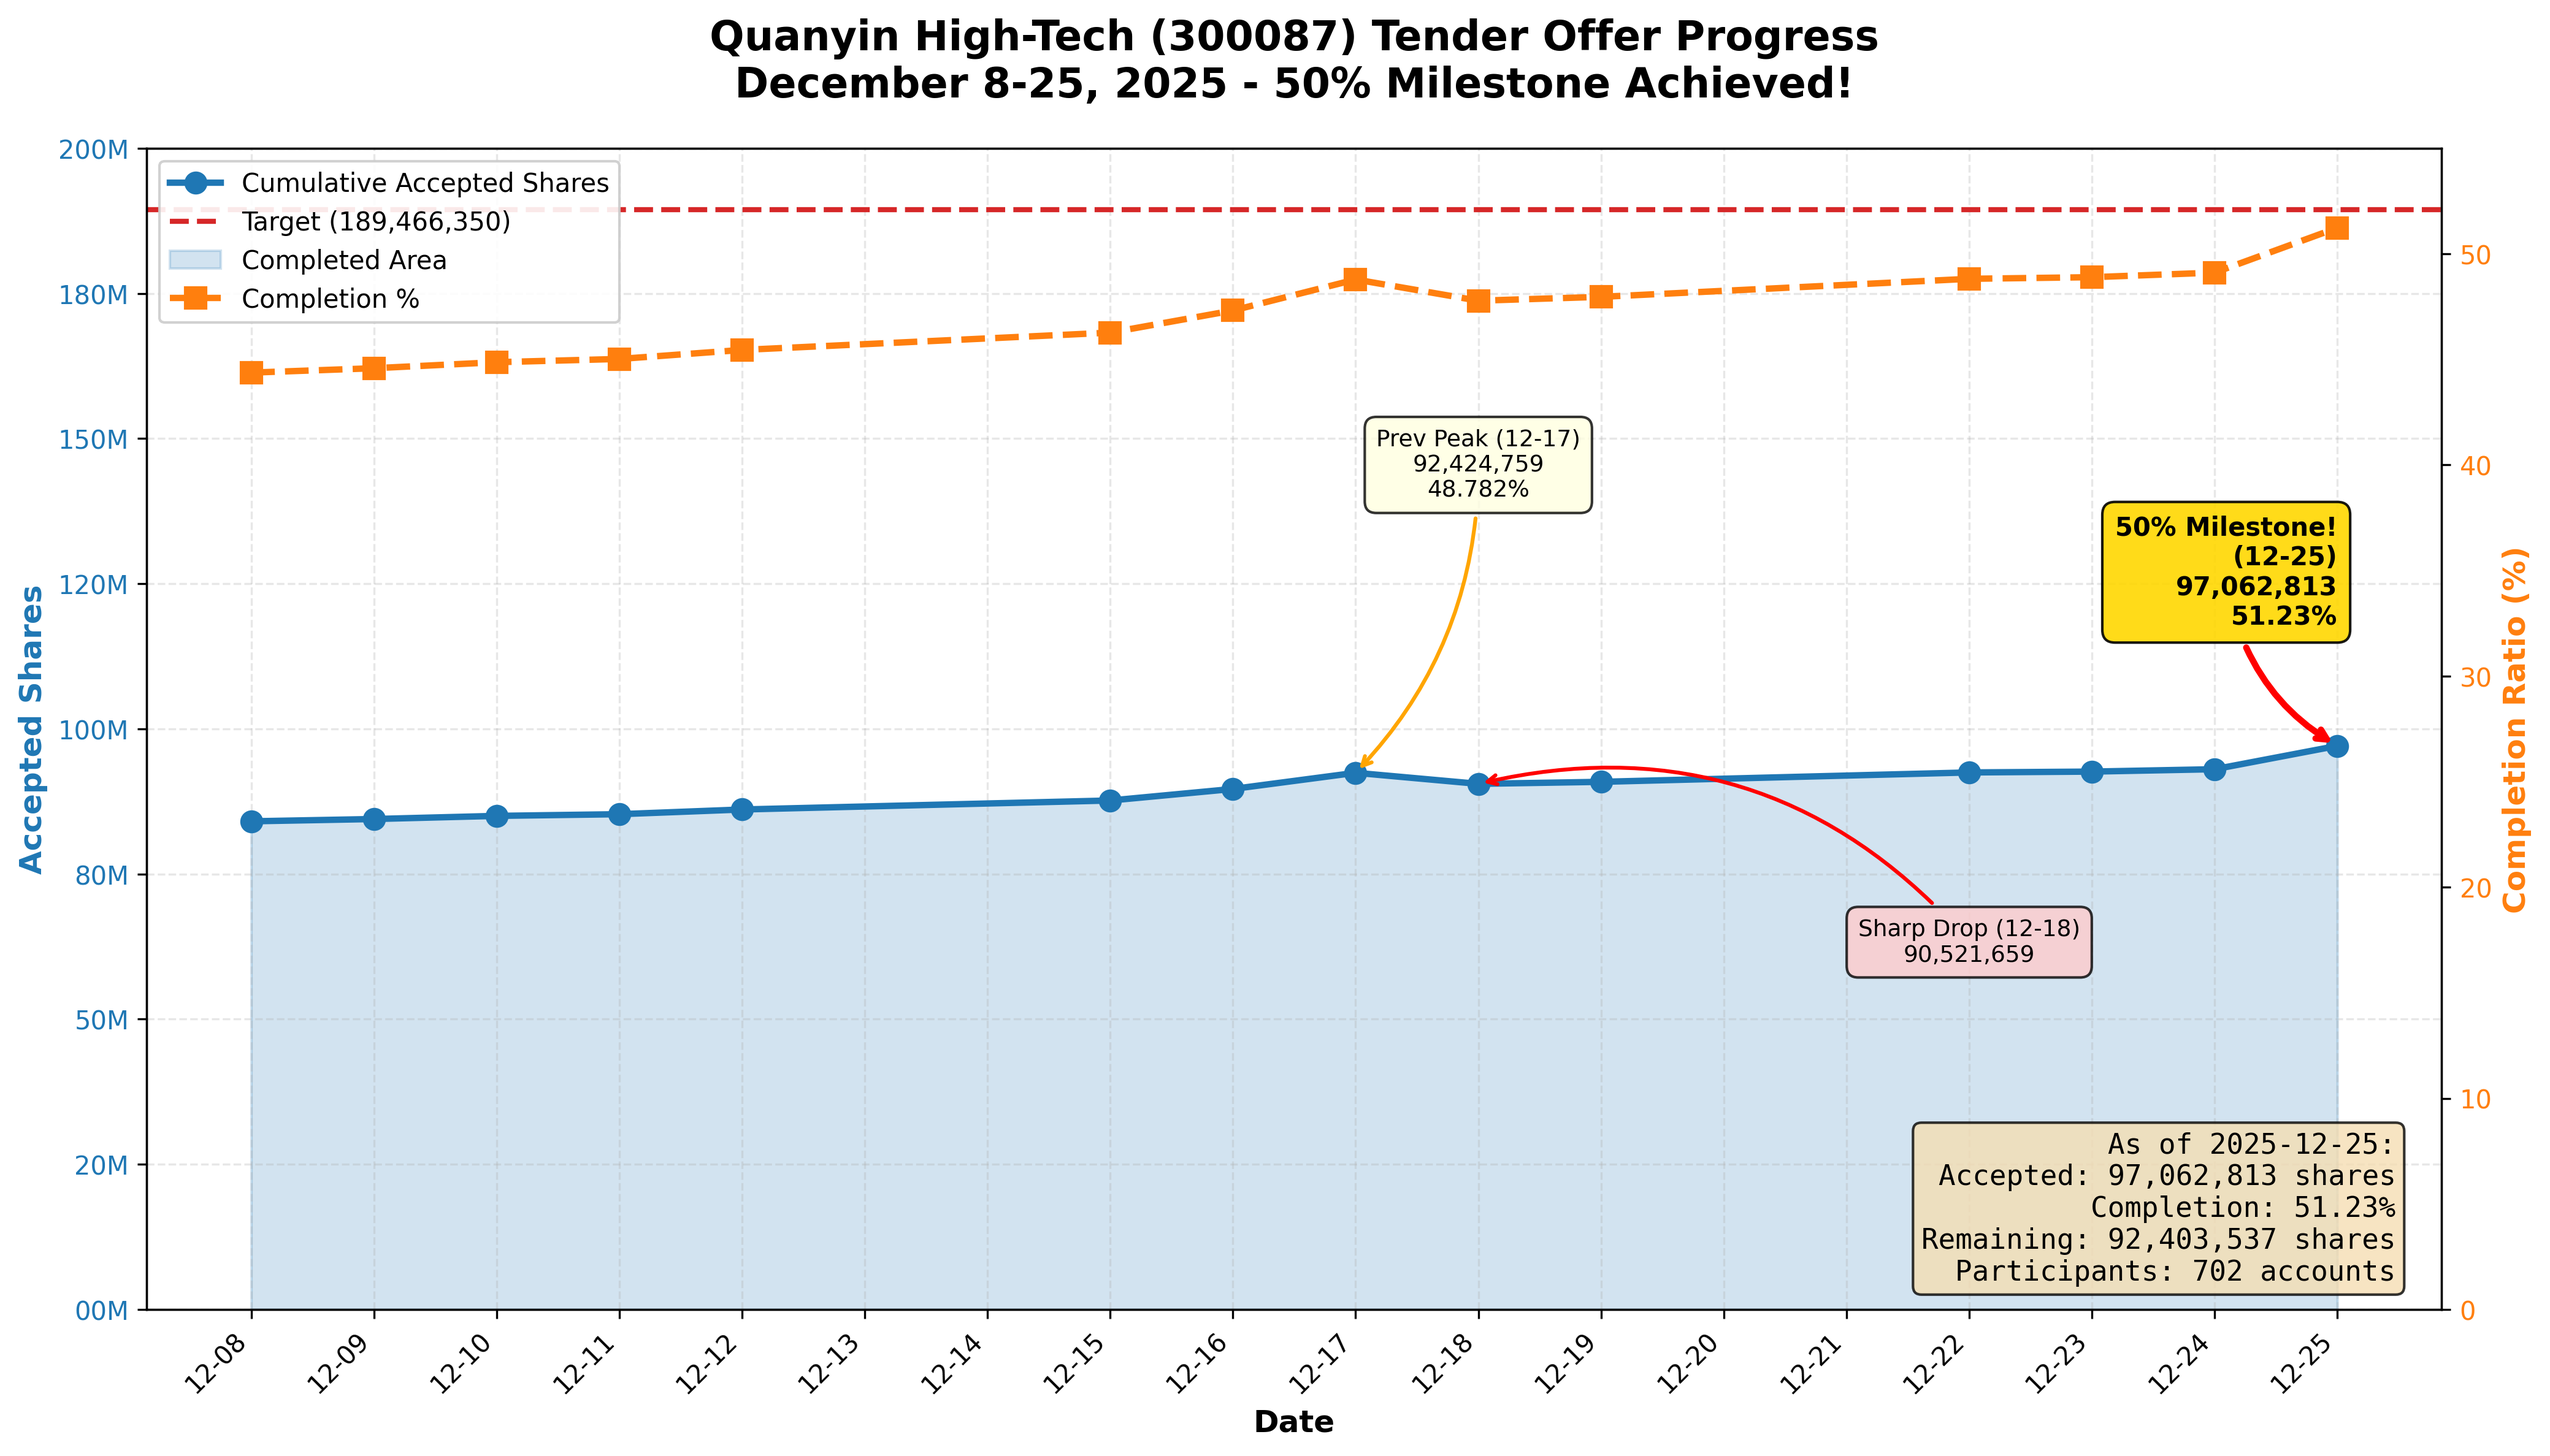
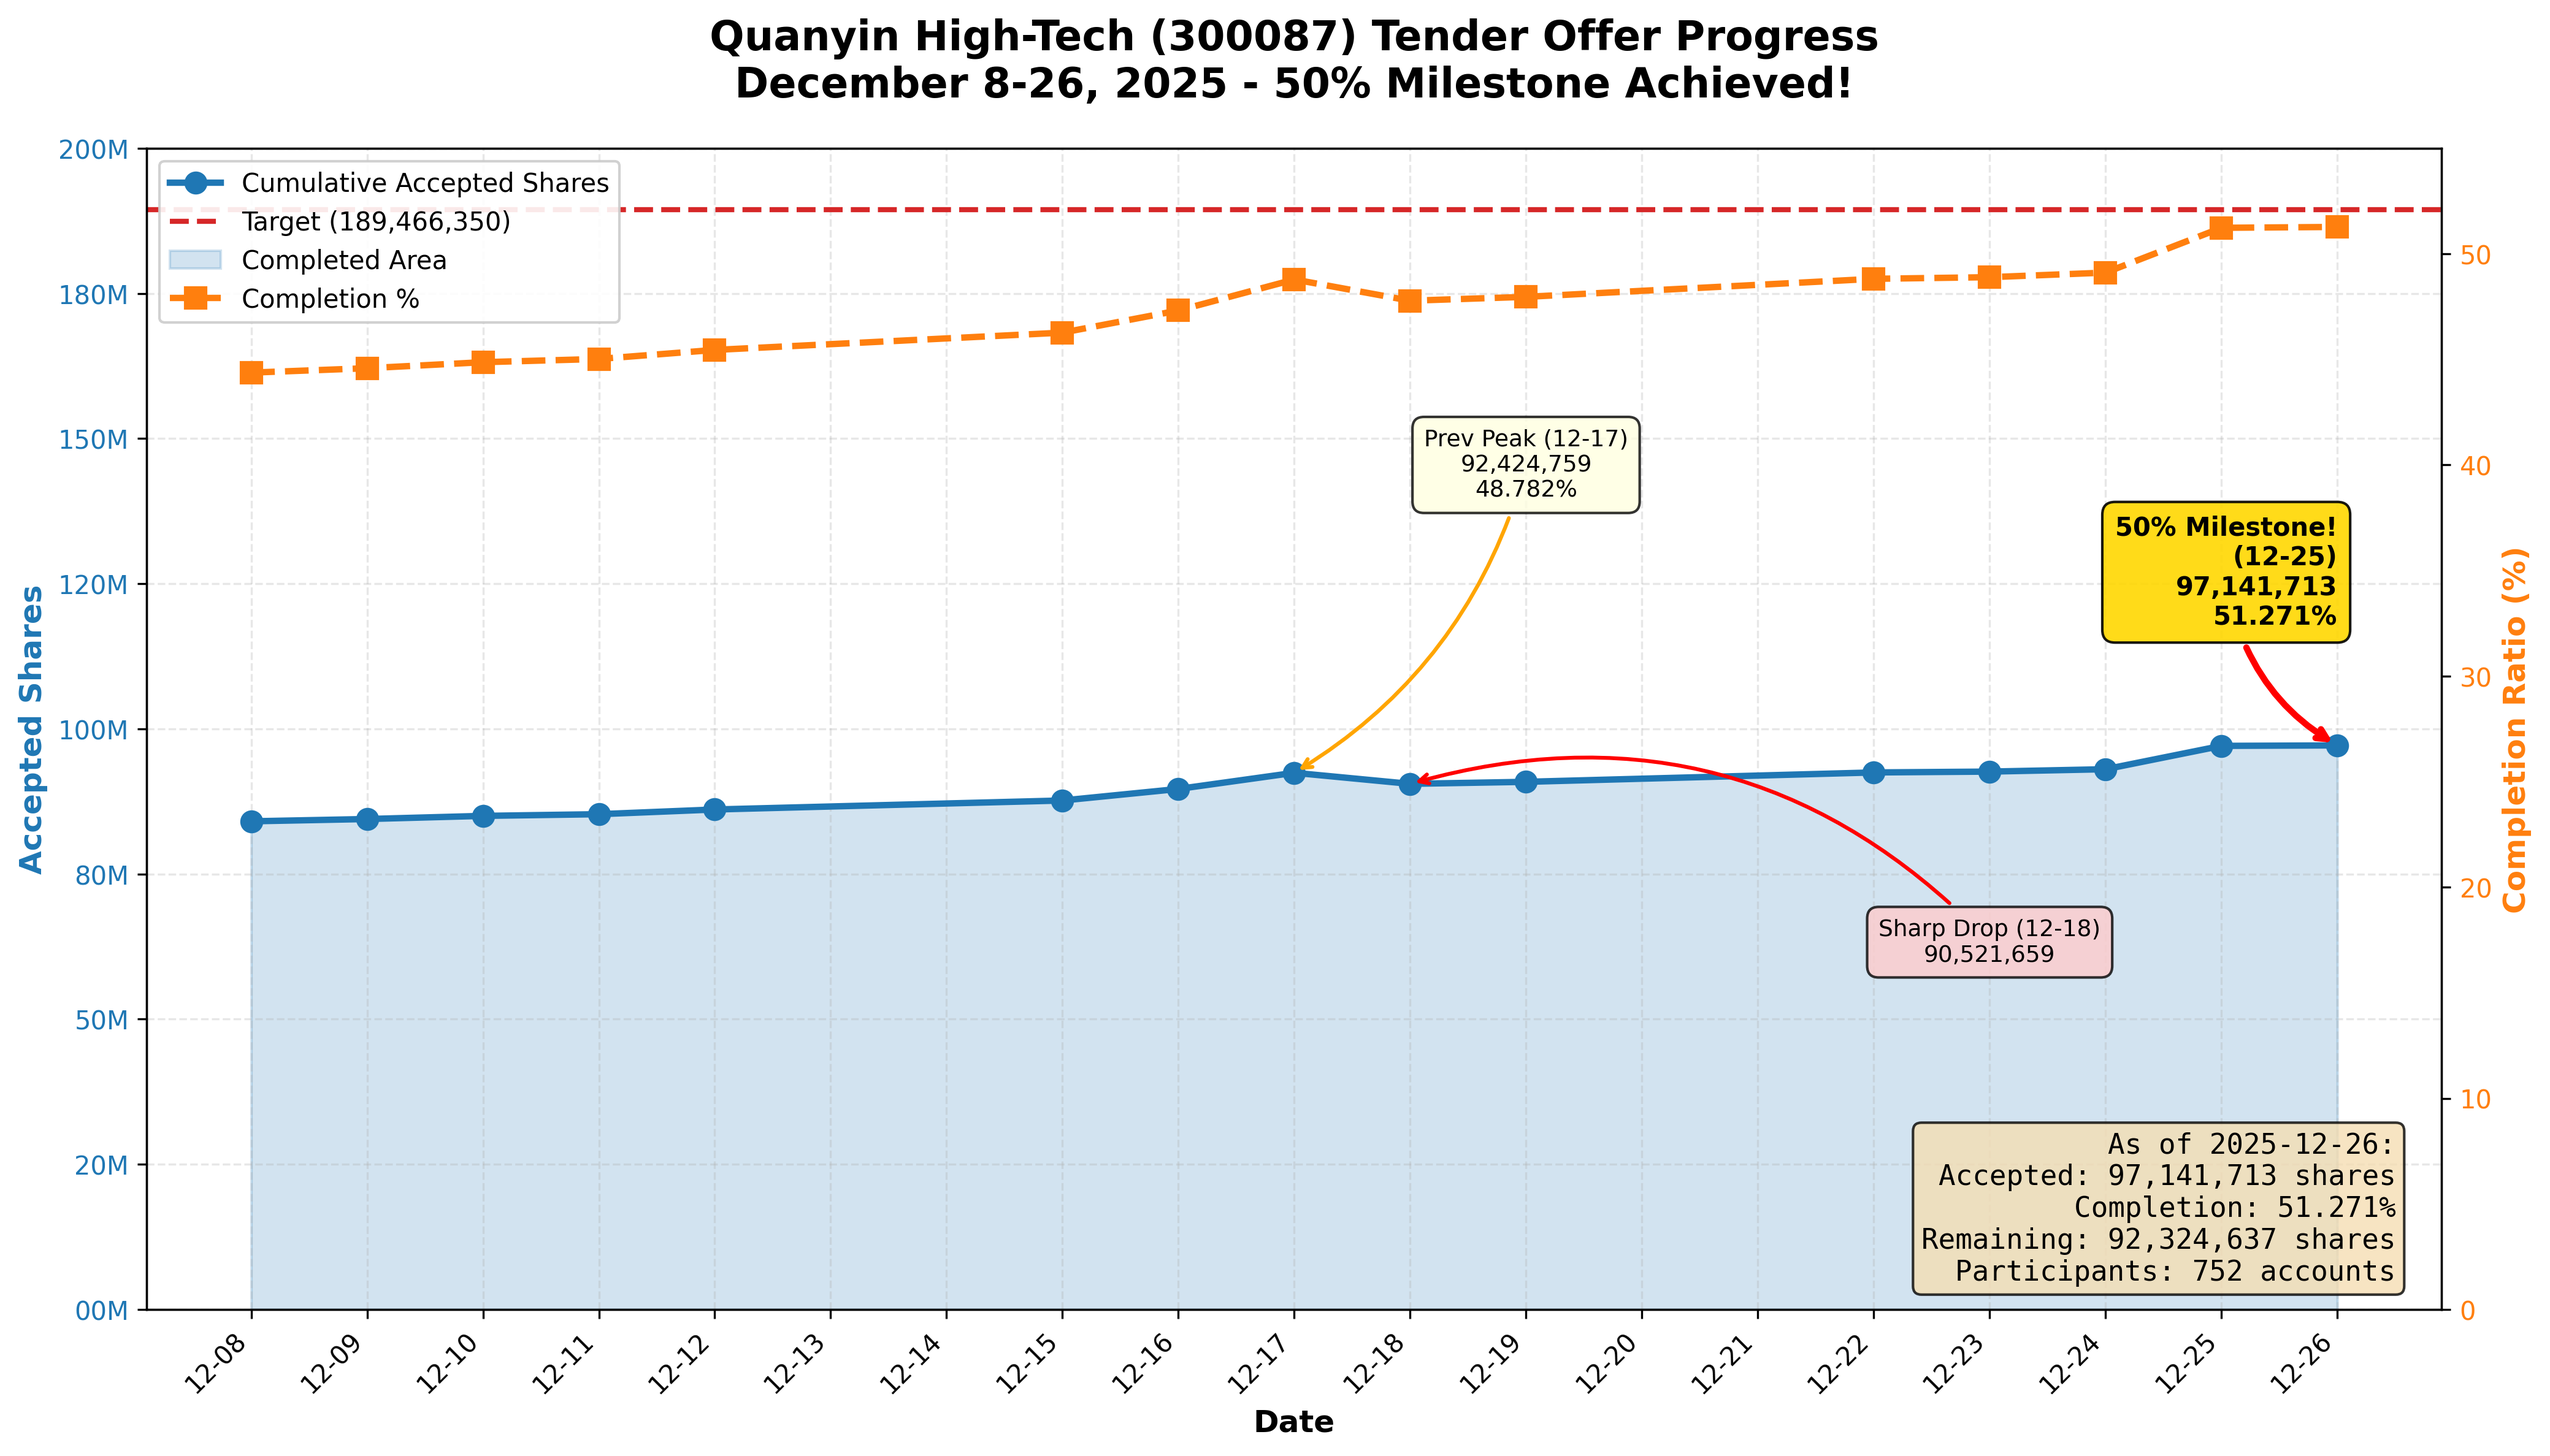
更新要约收购数据至12月26日
- 累计净预受股数达97,141,713股（51.271%）
- 单日净增78,900股，继续保持在50%以上
- 预受户数增至752户
- 图表更新至12-26数据
- 添加12月29日截图文件

diff --git a/05_quanyin_tender_offer/generate_chart.py b/05_quanyin_tender_offer/generate_chart.py
@@ -26,7 +26,8 @@ dates = [
     '2025-12-22',
     '2025-12-23',
     '2025-12-24',
-    '2025-12-25'
+    '2025-12-25',
+    '2025-12-26'
 ]
 
 # Cumulative net accepted shares
@@ -44,7 +45,8 @@ cumulative_shares = [
     92486293,
     92631653,
     93042653,
-    97062813
+    97062813,
+    97141713
 ]
 
 # Completion ratio
@@ -62,7 +64,8 @@ completion_ratio = [
     48.814,
     48.891,
     49.108,
-    51.23
+    51.23,
+    51.271
 ]
 
 # Convert date format
@@ -151,7 +154,7 @@ ax1.annotate(f'Sharp Drop (12-18)\n{cumulative_shares[drop_idx]:,}',
              fontsize=9, ha='center')
 
 # Title
-plt.title('Quanyin High-Tech (300087) Tender Offer Progress\nDecember 8-25, 2025 - 50% Milestone Achieved!',
+plt.title('Quanyin High-Tech (300087) Tender Offer Progress\nDecember 8-26, 2025 - 50% Milestone Achieved!',
           fontsize=16, fontweight='bold', pad=20)
 
 # Merge legends
@@ -165,7 +168,7 @@ stats_text = f'''As of {dates[-1]}:
 Accepted: {cumulative_shares[-1]:,} shares
 Completion: {completion_ratio[-1]}%
 Remaining: {target_shares - cumulative_shares[-1]:,} shares
-Participants: 702 accounts'''
+Participants: 752 accounts'''
 
 props = dict(boxstyle='round', facecolor='wheat', alpha=0.8)
 ax1.text(0.98, 0.02, stats_text, transform=ax1.transAxes,

diff --git a/05_quanyin_tender_offer/要约收购进度追踪.md b/05_quanyin_tender_offer/要约收购进度追踪.md
@@ -8,17 +8,17 @@
 
 ---
 
-## 进度概览（截至2025-12-25）
+## 进度概览（截至2025-12-26）
 
 ### 当前状态
-- ✅ **已净预受**：97,062,813 股
-- ⏳ **还需预受**：92,403,537 股
-- 📊 **完成进度**：51.23% 🎊 **重大突破！已超过50%！**
-- 📈 **预受户数**：702 户
+- ✅ **已净预受**：97,141,713 股
+- ⏳ **还需预受**：92,324,637 股
+- 📊 **完成进度**：51.271% 🎊 **保持在50%以上！**
+- 📈 **预受户数**：752 户
 
 ### 进度条
 ```
-已完成：█████████████████████████▌░░░░░░░░░░░░░░░░░░░░ 51.23%
+已完成：█████████████████████████▌░░░░░░░░░░░░░░░░░░░░ 51.271%
 ```
 
 ---
@@ -43,6 +43,7 @@
 | 12-23 | 1,125,660 | 980,300 | +145,360 | 92,631,653 | 48.891% | 672户 |
 | 12-24 | 1,202,700 | 791,700 | +411,000 | 93,042,653 | 49.108% | 682户 |
 | 12-25 | 5,516,160 | 1,496,000 | +4,020,160 | 97,062,813 | 51.23% | 702户 |
+| 12-26 | 1,038,900 | 960,000 | +78,900 | 97,141,713 | 51.271% | 752户 |
 
 ---
 
@@ -57,11 +58,11 @@
 
 | 日期 | 净变化 | 趋势 |
 |------|--------|------|
-| 12-19 | +347,208 | ⬆ 恢复增长 |
 | 12-22 | +1,617,426 | ⬆⬆ 强劲反弹 |
 | 12-23 | +145,360 | ⬆ 小幅增长 |
 | 12-24 | +411,000 | ⬆⬆ 加速增长，突破49% |
 | 12-25 | +4,020,160 | 🚀🚀🚀 历史最高单日净增，**突破50%重大里程碑！** |
+| 12-26 | +78,900 | ⬆ 稳步增长，保持在51%以上 |
 
 ### 💡 关键观察
 
@@ -72,7 +73,8 @@
 5. **12月23日稳步增长**：单日净增14.5万股，累计预受达到92,631,653股（48.891%），再创新高
 6. **12月24日重大突破**：单日净增41.1万股，累计预受达到93,042,653股（**49.108%**），**突破49%关口**！
 7. **🎊 12月25日历史性突破**：单日净增**402万股**（历史最高），累计预受达到97,062,813股（**51.23%**），**成功突破50%重大里程碑**！
-8. **参与户数持续增加**：从282户增长到702户，增长149%
+8. **12月26日稳步巩固**：单日净增7.89万股，累计预受达到97,141,713股（**51.271%**），**继续保持在50%以上**
+9. **参与户数持续增加**：从282户增长到752户，增长167%
 
 ---
 
@@ -80,19 +82,19 @@
 
 ### 还需完成
 
-- **剩余股数**：92,403,537 股
-- **剩余比例**：48.77%
-- **剩余天数**：约11个交易日（截至2026年1月5日）
+- **剩余股数**：92,324,637 股
+- **剩余比例**：48.729%
+- **剩余天数**：约10个交易日（截至2026年1月5日）
 
 ### 完成预测
 
-按最近14个交易日平均每日净增速度：
-- **日均净增**：约 927,838 股
-- **预计完成时间**：需要约 100 个交易日
+按最近15个交易日平均每日净增速度：
+- **日均净增**：约 874,152 股
+- **预计完成时间**：需要约 106 个交易日
 
 ⚠ **注意**：按当前速度，可能无法在要约期内完成全部189,466,350股的收购目标。
 
-🎊 **重大里程碑**：已成功突破50%，达到51.23%！12月25日单日净增创历史新高（402万股），展现强劲增长势头！
+🎊 **重大里程碑**：已成功突破50%，达到51.271%！12月25日单日净增创历史新高（402万股），12月26日继续保持在50%以上，展现稳定增长态势！
 
 ---
 
@@ -179,12 +181,19 @@
 - 净预受：682户，93,042,653股（49.108%）
 - **重大里程碑：突破49%关口，距离50%仅一步之遥！**
 
-### 2025年12月25日（周三）📅 最新 🎊 **历史性突破50%！**
+### 2025年12月25日（周三）🎊 **历史性突破50%！**
 - 股份性质：流通股
 - 当天预受：50户，5,516,160股
 - 当天撤回：25户，1,496,000股
 - 净预受：702户，97,062,813股（**51.23%**）
-- **🎊 历史性重大里程碑：单日净增402万股（历史最高），成功突破50%关口，达到51.23%！**
+- **历史性重大里程碑：单日净增402万股（历史最高），成功突破50%关口，达到51.23%！**
+
+### 2025年12月26日（周四）📅 最新 ✅ **保持在50%以上**
+- 股份性质：流通股
+- 当天预受：81户，1,038,900股
+- 当天撤回：19户，960,000股
+- 净预受：752户，97,141,713股（**51.271%**）
+- **稳步增长：单日净增7.89万股，继续保持在50%以上，完成度提升至51.271%**
 
 ---
 
@@ -201,9 +210,9 @@
    - 如果预受股份不足，则全部收购
 
 3. **当前风险**：
-   - 完成度51.23%，距离目标还有48.77%
-   - 12月18日曾出现大额撤回，但12月22-25日连续强劲反弹
-   - 已成功突破50%关口，势头强劲！12月25日创历史最高单日净增，展现良好发展态势
+   - 完成度51.271%，距离目标还有48.729%
+   - 12月18日曾出现大额撤回，但12月22-26日连续保持增长
+   - 已成功突破50%关口，并稳定保持！12月25日创历史最高单日净增，12月26日继续巩固成果
 
 ---
 
@@ -211,8 +220,8 @@
 
 - 深圳证券交易所要约收购信息公示
 - 网址：https://www.szse.cn/disclosure/deal/offer/index.html
-- 数据更新时间：2025年12月25日
+- 数据更新时间：2025年12月26日
 
 ---
 
-*文档更新时间：2025年12月25日*
+*文档更新时间：2025年12月26日*
